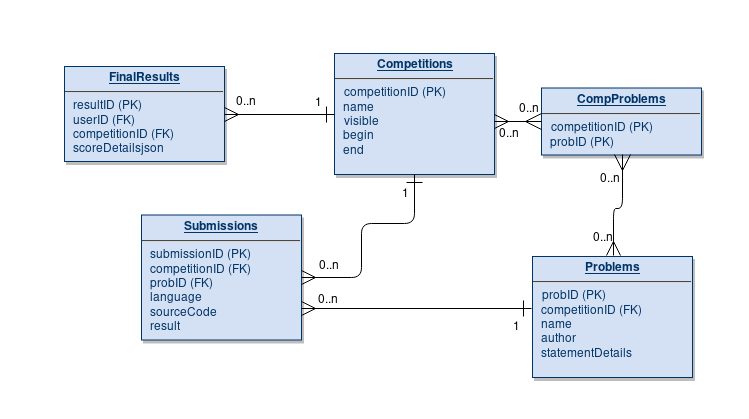
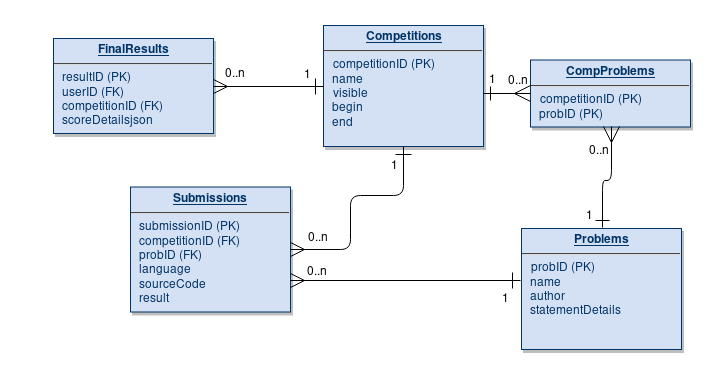
Fix drawings

Changed region(s): [[0.061, 0.0579, 0.9764, 0.5211], [0.1831, 0.4921, 0.9459, 0.9263], [0.4882, 0.4921, 0.5492, 0.55]]

diff --git a/Presentation/presentation.tex b/Presentation/presentation.tex
@@ -254,9 +254,8 @@
 \begin{frame}
   \frametitle{Αρχιτεκτονική Συστήματος}
 
-  %TODO redraw
   \begin{figure}
-    \includegraphics[scale=0.3]{../Figures/graderarchitecture.png}
+    \includegraphics[scale=0.45]{../Figures/graderarchitecture.png}
   \end{figure}
 \end{frame}
 
@@ -479,9 +478,6 @@
 \end{frame}
 
 \section{Επεκτάσεις: Python, Mass Testcase Upload, Connector PDO}
-% mia diaf gia python 2 kai poies itan, python 3 soon
-% automato anevasma testcases + groups, descriptor, anafora sto ergaleio isws demo
-% mia diafaneia pdo asfaleia prepared statement abstraction
 
 \begin{frame}
   \frametitle{Υποστηριζόμενες γλώσσες Grader}
